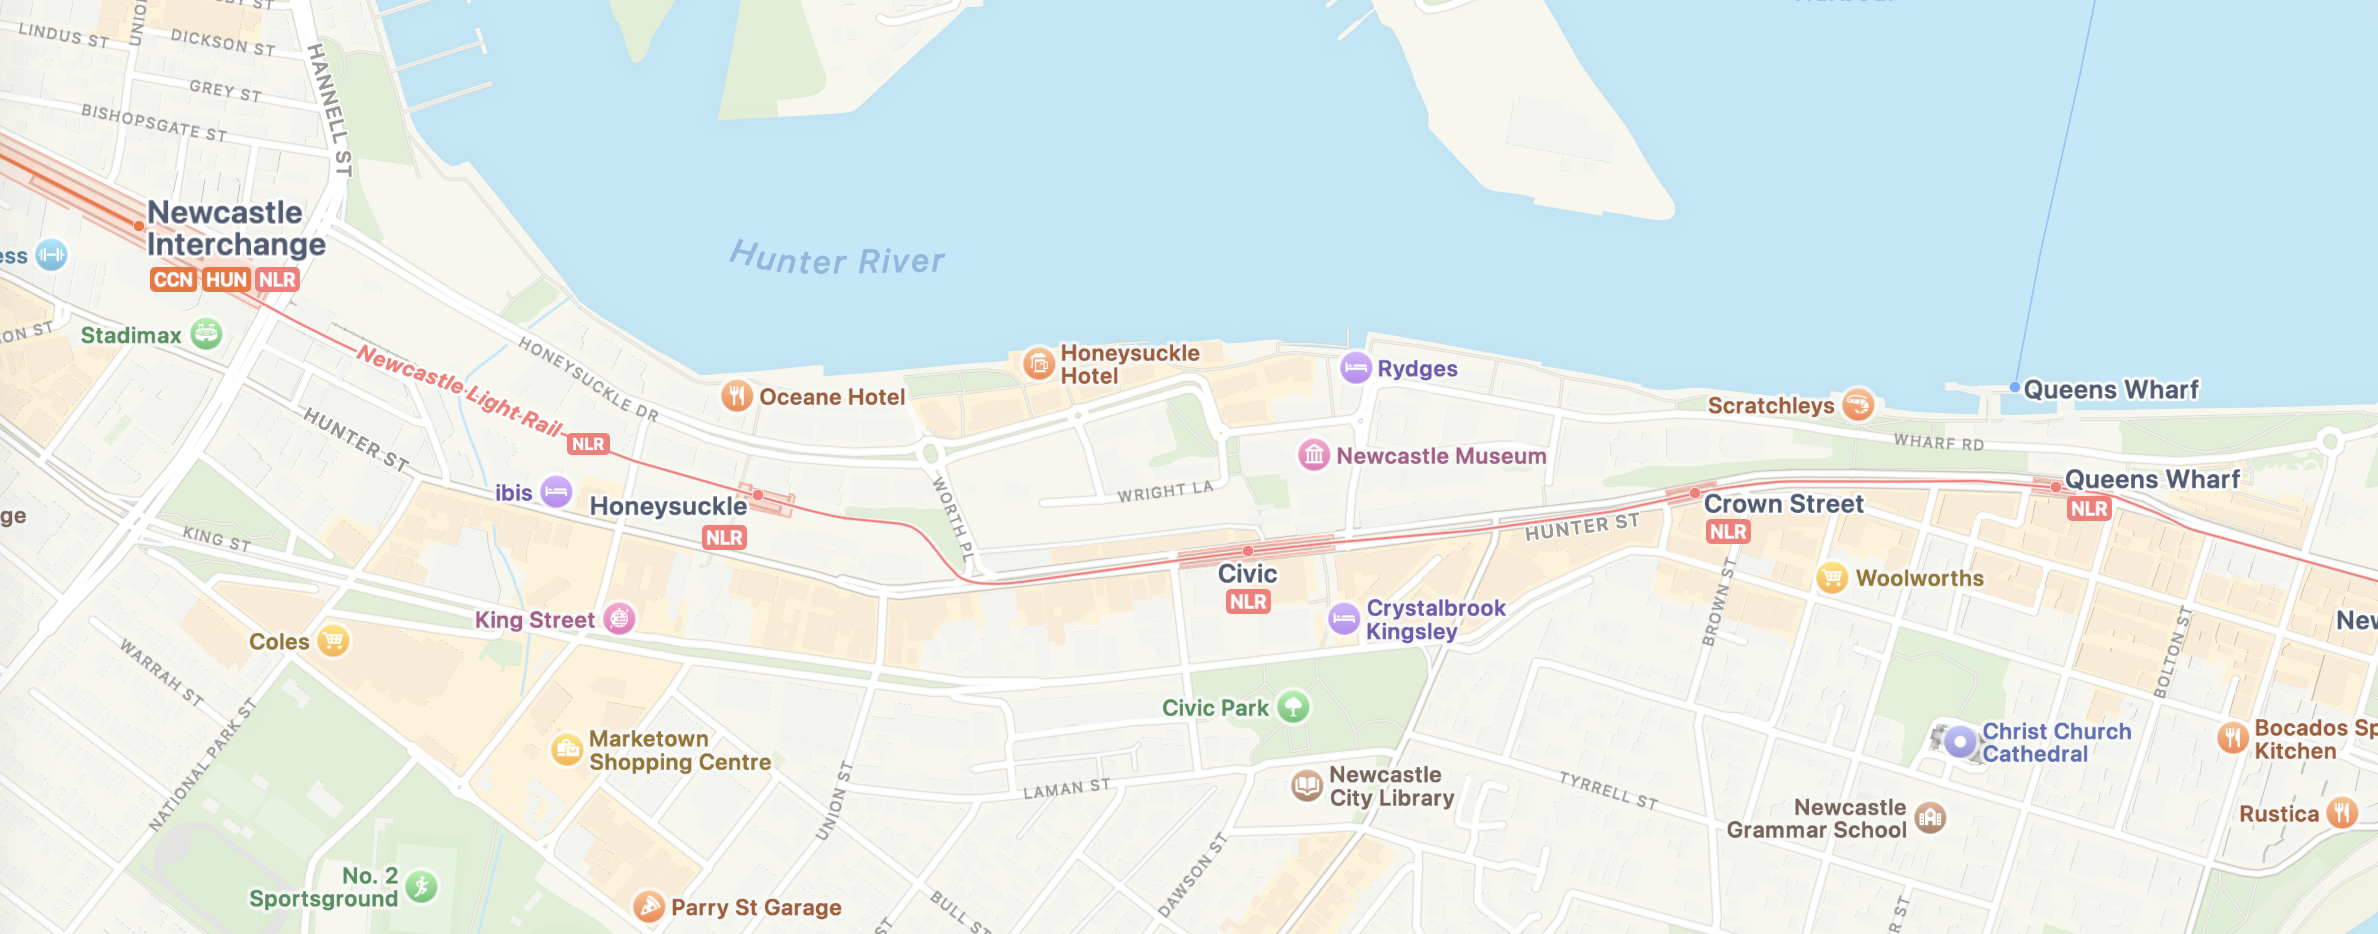
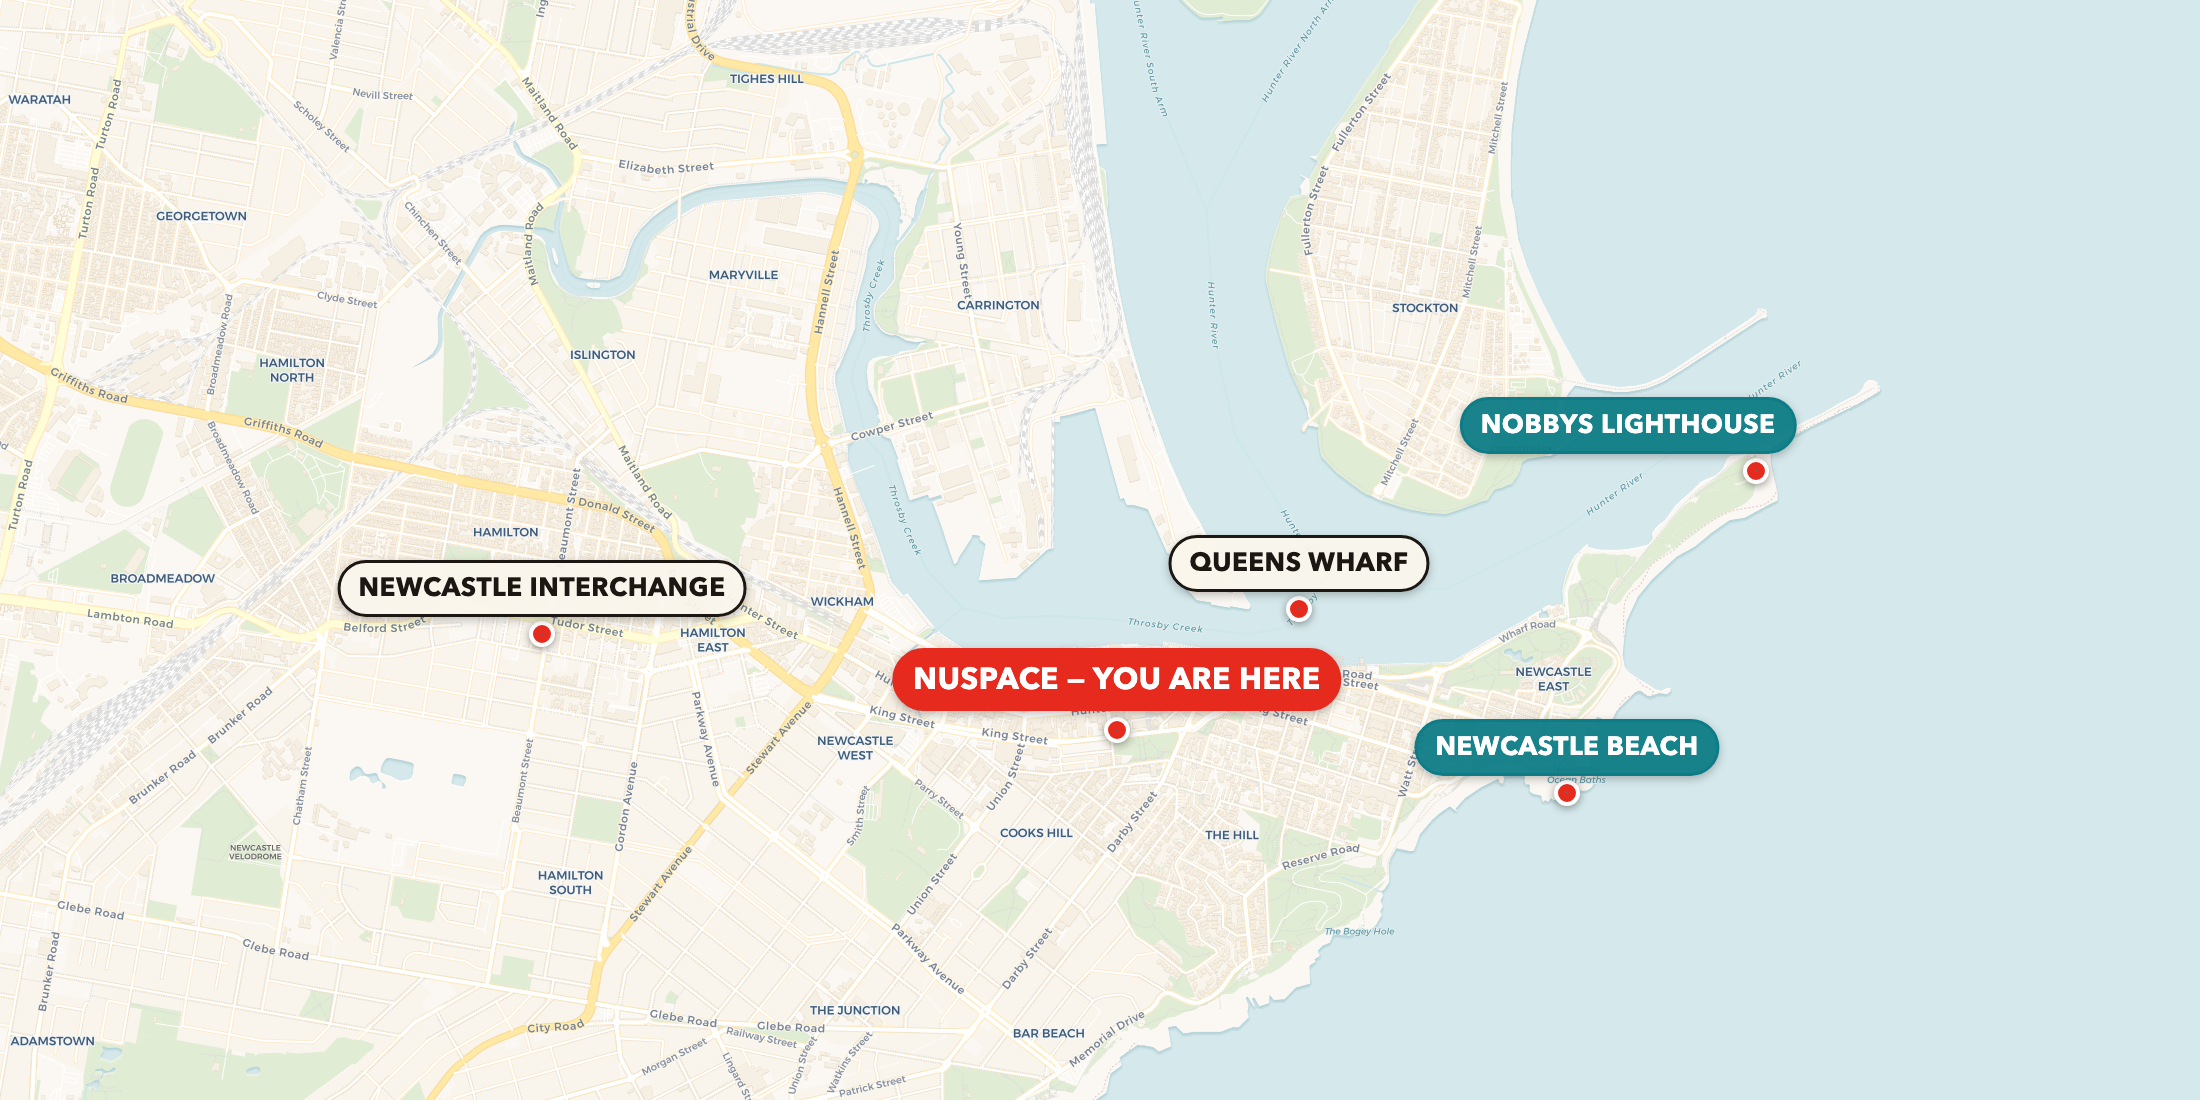
Replace map slide with wide custom-labelled Newcastle map (Interchange to Nobbys)
Rendered from OpenStreetMap/CARTO tiles with brand-styled labels; attribution added.

diff --git a/slides.html b/slides.html
@@ -376,8 +376,9 @@
   <section class="slide" data-n="10 / 30">
     <div class="tag">Your patch</div>
     <h2>This is <span class="smart">Newcastle</span></h2>
-    <img class="mapimg" src="assets/newcastle-map.png" alt="Map of Newcastle city centre showing the light rail line from Newcastle Interchange past Civic to the beach">
-    <p class="big dim" style="margin-top:2vh;">You are here — NUspace, beside Civic station. Harbour to the north, beaches to the east, suburbs in every direction. Whether you're from Hamilton or Maitland, <em>your experience of this map is your expertise today.</em></p>
+    <img class="mapimg" src="assets/newcastle-map.png" alt="Map of Newcastle from the western suburbs to the coast, with NUspace, Newcastle Interchange, Queens Wharf, Newcastle Beach and Nobbys Lighthouse marked">
+    <p class="big dim" style="margin-top:2vh;">You are here — NUspace, beside Civic station. The harbour and Stockton to the north, Nobbys and the beaches to the east, suburbs in every direction. Whether you're from Hamilton or Maitland, <em>your experience of this map is your expertise today.</em></p>
+    <p style="font-family:var(--ui);font-size:11px;color:var(--paper-dim);margin-top:1vh;">Map © OpenStreetMap contributors · © CARTO</p>
   </section>
 
   <!-- 11 · FOCUS AREAS -->
